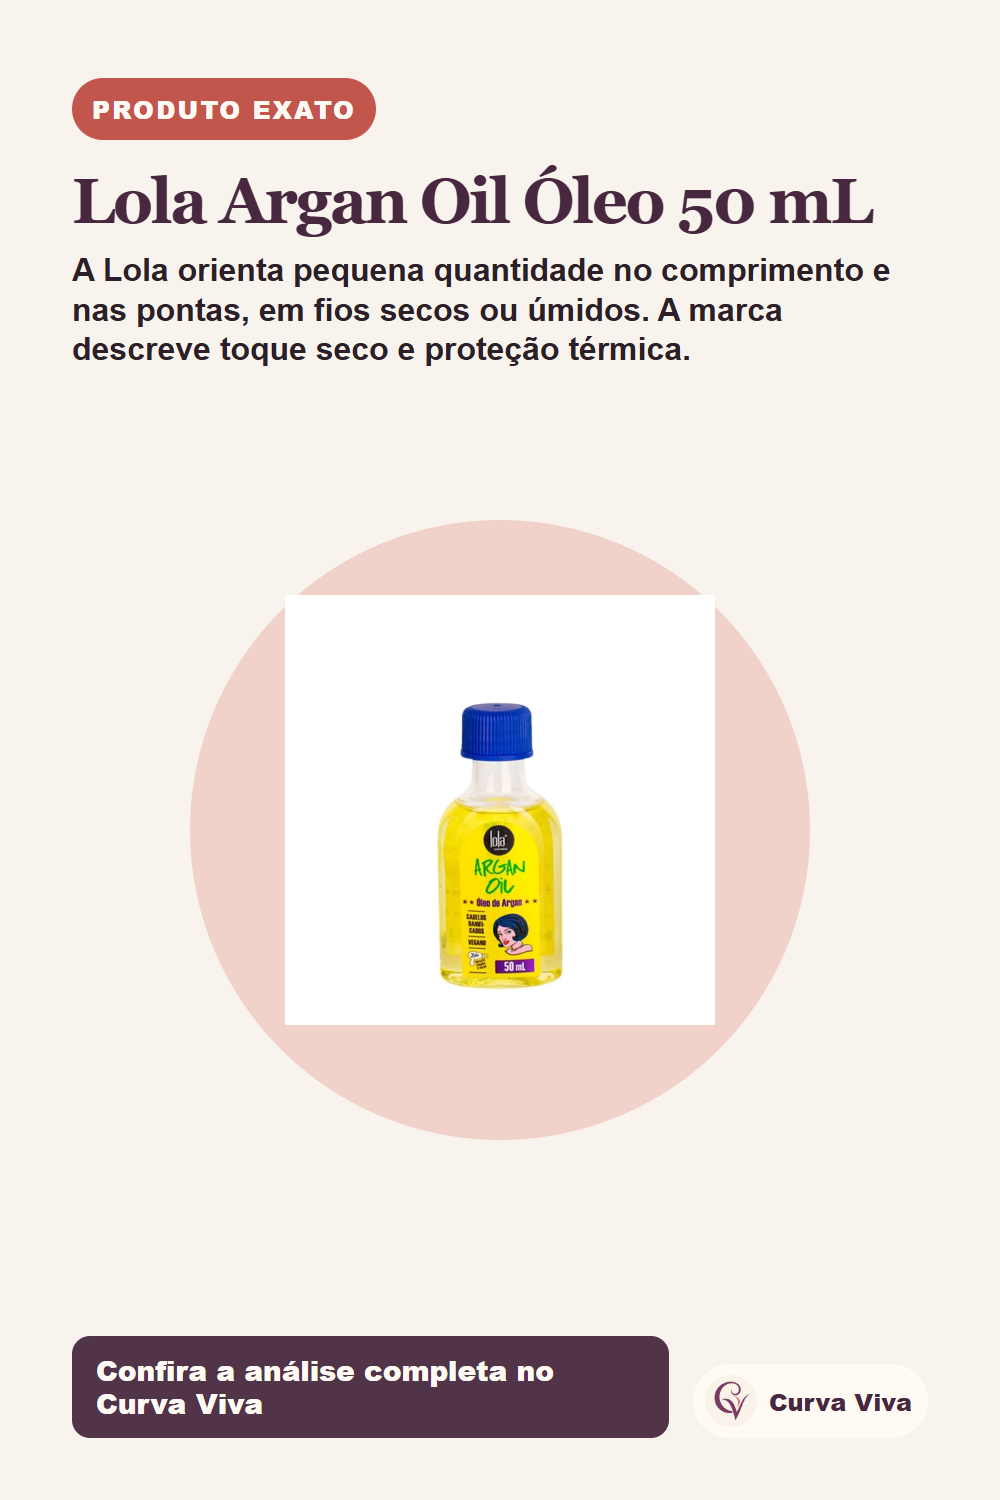
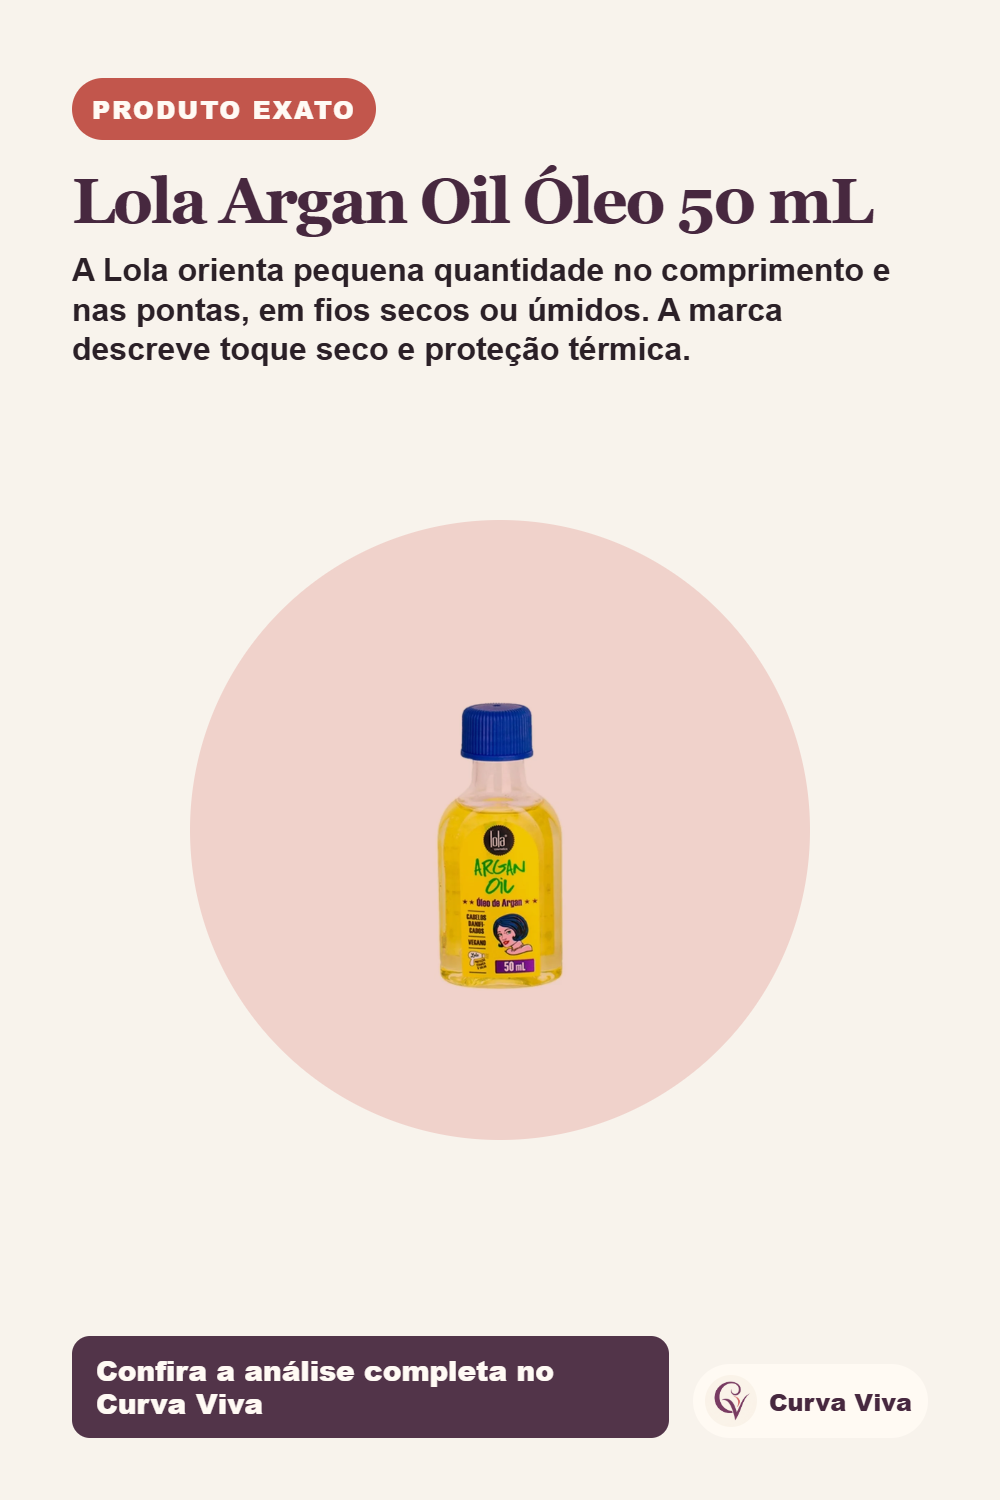
Corrigir recorte do produto no Pin de argan

diff --git a/midia-social/pinterest/2026-08-16-oleo-argan-ondulado/cartoes.html b/midia-social/pinterest/2026-08-16-oleo-argan-ondulado/cartoes.html
@@ -18,9 +18,9 @@
       .brand { display: flex; align-items: center; gap: 12px; padding: 11px 16px 11px 12px; border-radius: 999px; background: rgba(255,250,244,.96); color: #47283f; font-size: 24px; font-weight: 800; white-space: nowrap; }
       .brand img { width: 52px; height: 52px; border-radius: 50%; object-fit: cover; }
       .step h1 { font-size: 66px; }
-      .product { background: #f8f3ec; }
+      .product { background: #f8f3ec; isolation: isolate; }
       .product::before { content: ''; position: absolute; width: 620px; height: 620px; border-radius: 50%; background: #f0d2cb; left: 190px; top: 520px; }
-      .product-photo { position: absolute; z-index: 1; width: 430px; height: 650px; object-fit: contain; left: 285px; top: 485px; }
+      .product-photo { position: absolute; z-index: 1; width: 430px; height: 650px; object-fit: contain; left: 285px; top: 485px; mix-blend-mode: multiply; -webkit-mask-image: radial-gradient(ellipse 58% 58% at center, #000 68%, transparent 100%); mask-image: radial-gradient(ellipse 58% 58% at center, #000 68%, transparent 100%); }
       .product .content { z-index: 2; }
       .product .footer { margin-top: auto; }
       .product h1 { max-width: 850px; font-size: 63px; }

diff --git a/HISTORICO.md b/HISTORICO.md
@@ -487,3 +487,17 @@ O Pinterest aceitou a importação em massa às 20h42. A plataforma confirmou qu
 o arquivo foi carregado e que os Pins estão sendo criados, com processamento
 estimado em cerca de duas horas e aviso por email apenas em caso de problema.
 Nenhuma campanha, orçamento, cobrança ou configuração de anúncios foi aberta.
+
+### 16 de agosto de 2026 — Codex — Correção preparada para o Pin de argan
+
+Confirmado no Pin público `1146236542701452951` que o cartão do Lola Argan Oil
+50 mL exibia o fundo branco quadrado da foto de produto. O cartão foi corrigido
+localmente com composição por multiplicação e máscara suave, preservando a
+embalagem e o rótulo reais sem o quadrado.
+
+O editor do Pinterest foi inspecionado e não oferece substituição, remoção ou
+inclusão de mídia em Pin já publicado. Ele permite alterar apenas pasta, título,
+descrição, site, texto alternativo e marcações. Para trocar a imagem será
+necessário excluir o Pin inteiro e republicar as cinco imagens, o que apaga o
+endereço e as estatísticas atuais. A exclusão não foi executada sem confirmação
+específica do proprietário.

diff --git a/midia-social/pinterest/2026-08-16-oleo-argan-ondulado/PUBLICACAO.md b/midia-social/pinterest/2026-08-16-oleo-argan-ondulado/PUBLICACAO.md
@@ -14,3 +14,8 @@
 - Destino confirmado: https://www.curvaviva.com.br/artigos/oleo-de-argan-pesa-no-cabelo-ondulado/.
 - Verificação pública: cinco imagens navegáveis, CTA final, pasta correta, título, descrição, texto alternativo e marcações de IA confirmados.
 - Status do Pin: publicado sem patrocínio, campanha, orçamento ou cobrança.
+- Correção visual preparada em 16 de agosto de 2026: o cartão de produto
+  `pin-03.png` passou a integrar a embalagem real ao círculo rosa, sem o
+  quadrado branco. A edição do Pin publicado não oferece substituição de mídia,
+  apenas metadados e exclusão integral. A republicação aguarda autorização para
+  apagar o Pin atual, pois isso remove o endereço e as estatísticas existentes.
